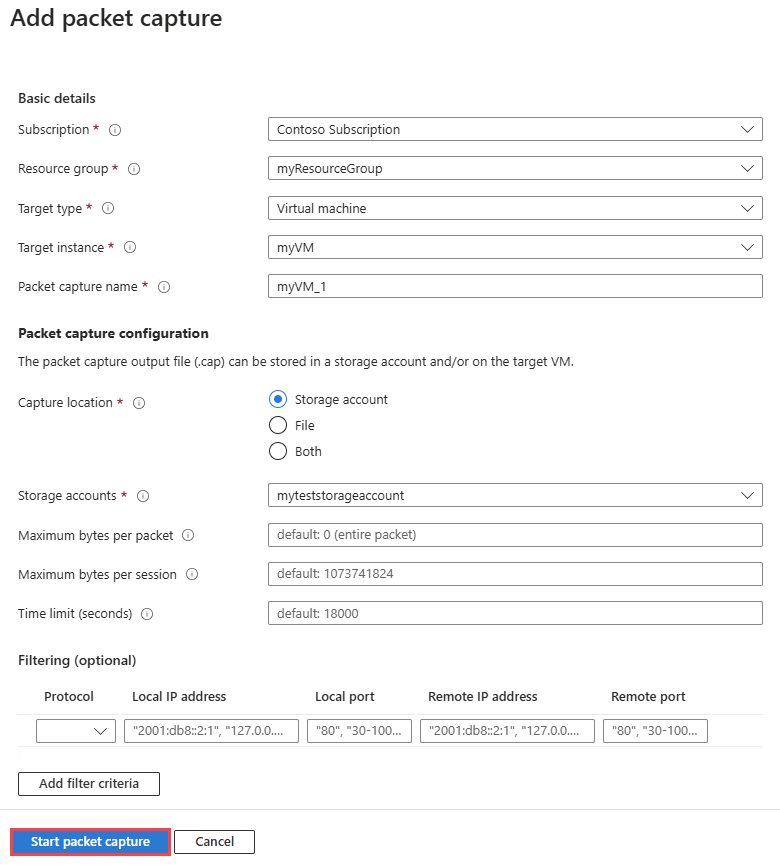
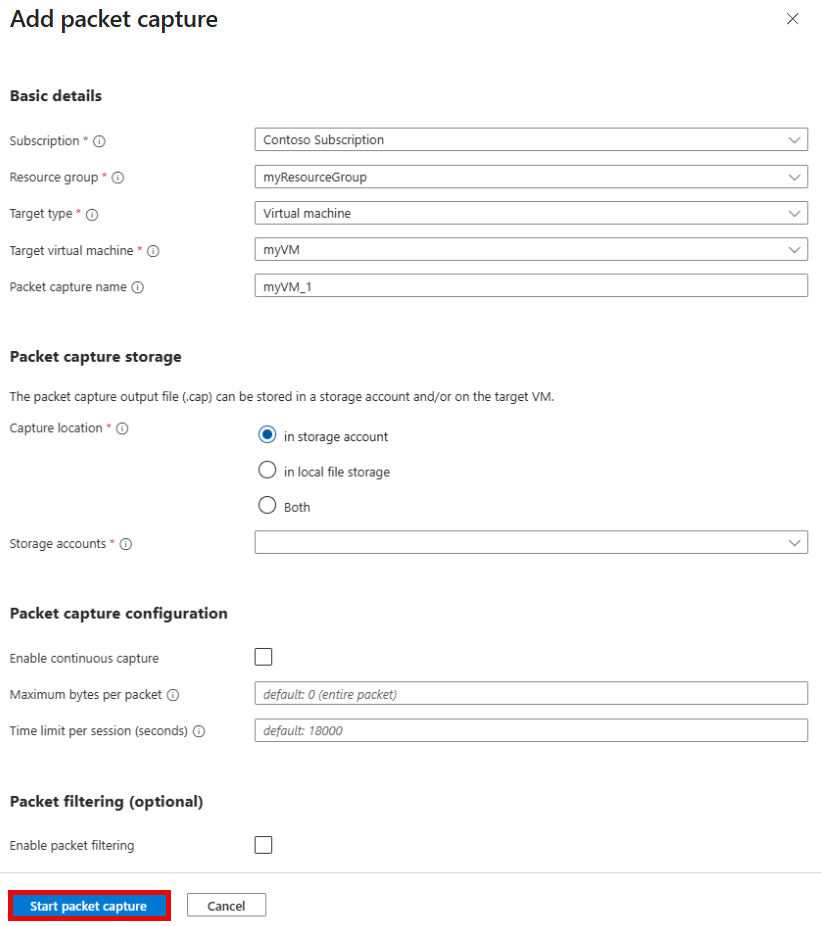
update portal experience

diff --git a/articles/network-watcher/packet-capture-manage.md b/articles/network-watcher/packet-capture-manage.md
@@ -6,9 +6,8 @@ author: halkazwini
 ms.author: halkazwini
 ms.service: azure-network-watcher
 ms.topic: how-to
-ms.date: 03/21/2025
+ms.date: 02/24/2026
 
-#CustomerIntent: As an administrator, I want to capture IP packets to and from a virtual machine (VM) so I can review and analyze the data to help diagnose and solve network problems.
 # Customer intent: As a network administrator, I want to manage packet captures on Azure virtual machines so that I can analyze network traffic and troubleshoot issues effectively.
 ---
 
@@ -97,18 +96,23 @@ To start a capture session, use the following steps:
     | Subscription | Select the Azure subscription of the virtual machine. |
     | Resource group | Select the resource group of the virtual machine. |
     | Target type | Select **Virtual machine** or **Virtual machine scale set**. |
+    | Target virtual machine | Select the virtual machine. <br> This option is available if you select **Virtual machine** as the target type. |
     | Target virtual machine scale set | Select the virtual machine scale set. <br> This option is available if you select **Virtual machine scale set** as the target type. |
-    | Target instance | Select the virtual machine or scale set instance. |
+    | Target instance | Select the virtual machine scale set instance. <br> This option is available if you select **Virtual machine scale set** as the target type. |
     | Packet capture name | Enter a name or leave the default name. |
+    | **Packet capture storage** |  |
+    | Capture location | Select **in storage account** (default option), **in local file storage**, or **Both**. |
+    | Storage accounts | Select your **Standard** storage account<sup>1</sup>. <br> This option is available if you select **in storage account** or **Both** as the capture location. <br> The storage account must be in the same region as the target instance. |
+    | Local file path | Enter a valid local file path where you want the capture to be saved in the target virtual machine. <br>If you're using a Linux machine, the path can start with `/var/captures`. <br>If you're using a Windows machine, the path can start with `C:\Captures`. <br> This option is available if you select **in local file storage** or **Both** as the capture location. |
     | **Packet capture configuration** |  |
-    | Capture location | Select **Storage account** (default option), **File**, or **Both**. |
-    | Storage account | Select your **Standard** storage account<sup>1</sup>. <br> This option is available if you select **Storage account** or **Both** as a capture location. <br> The storage account must be in the same region as the target instance. |
-    | Local file path | Enter a valid local file path where you want the capture to be saved in the target virtual machine. <br>If you're using a Linux machine, the path can start with `/var/captures`. <br>If you're using a Windows machine, the path can start with `C:\Captures`. <br> This option is available if you select **File** or **Both** as a capture location. |
+    | Enable continuous capture | Check this checkbox if you want to enable continuous packet capture. |
     | Maximum bytes per packet | Enter the maximum number of bytes to be captured per each packet. All bytes are captured if left blank or 0 entered. |
-    | Maximum bytes per session | Enter the total number of bytes that are captured. Once the value is reached the packet capture stops. Up to 1 GB is captured if left blank. |
-    | Time limit (seconds) | Enter the time limit of the packet capture session in seconds. Once the value is reached the packet capture stops. Up to 5 hours (18,000 seconds) is captured if left blank. |
-    | **Filtering (optional)** |  |   
-    | Add filter criteria | Select **Add filter criteria** to add a new filter. You can define as many filters as you need. |
+    | New files created | Enter the maximum number of files created. The default value is 100 MB and the maximum value is 4 GB. <br> This option is available if you enable **continuous capture**. |
+    | Bytes per file | Enter the number of bytes per file. Once the value is reached, a new file is created. |
+    | Time limit (seconds) | Enter the time limit of the packet capture session in seconds. Once the value is reached the packet capture stops. <br>If left blank: <br> - Up to 5 hours (18,000 seconds) is captured without enabling continuous capture. <br> - Up to 1 day (86,400 seconds) is captured if you enable continuous capture. The maximum value is 604,800 seconds (7 days). |
+    | **Packet filtering (optional)** |  |   
+    | Packet filtering | Select **Enable packet filtering** to enable packet filtering. |
+    | Add a filter | Select **Add filter criteria** to add a new filter. You can define as many filters as you need. |
     | Protocol | Filters the packet capture based on the selected protocol. Available values are **TCP**, **UDP**, or **Any**. |   
     | Local IP address<sup>2</sup> | Filters the packet capture for packets where the local IP address matches this value. |
     | Local port<sup>2</sup> | Filters the packet capture for packets where the local port matches this value. |
